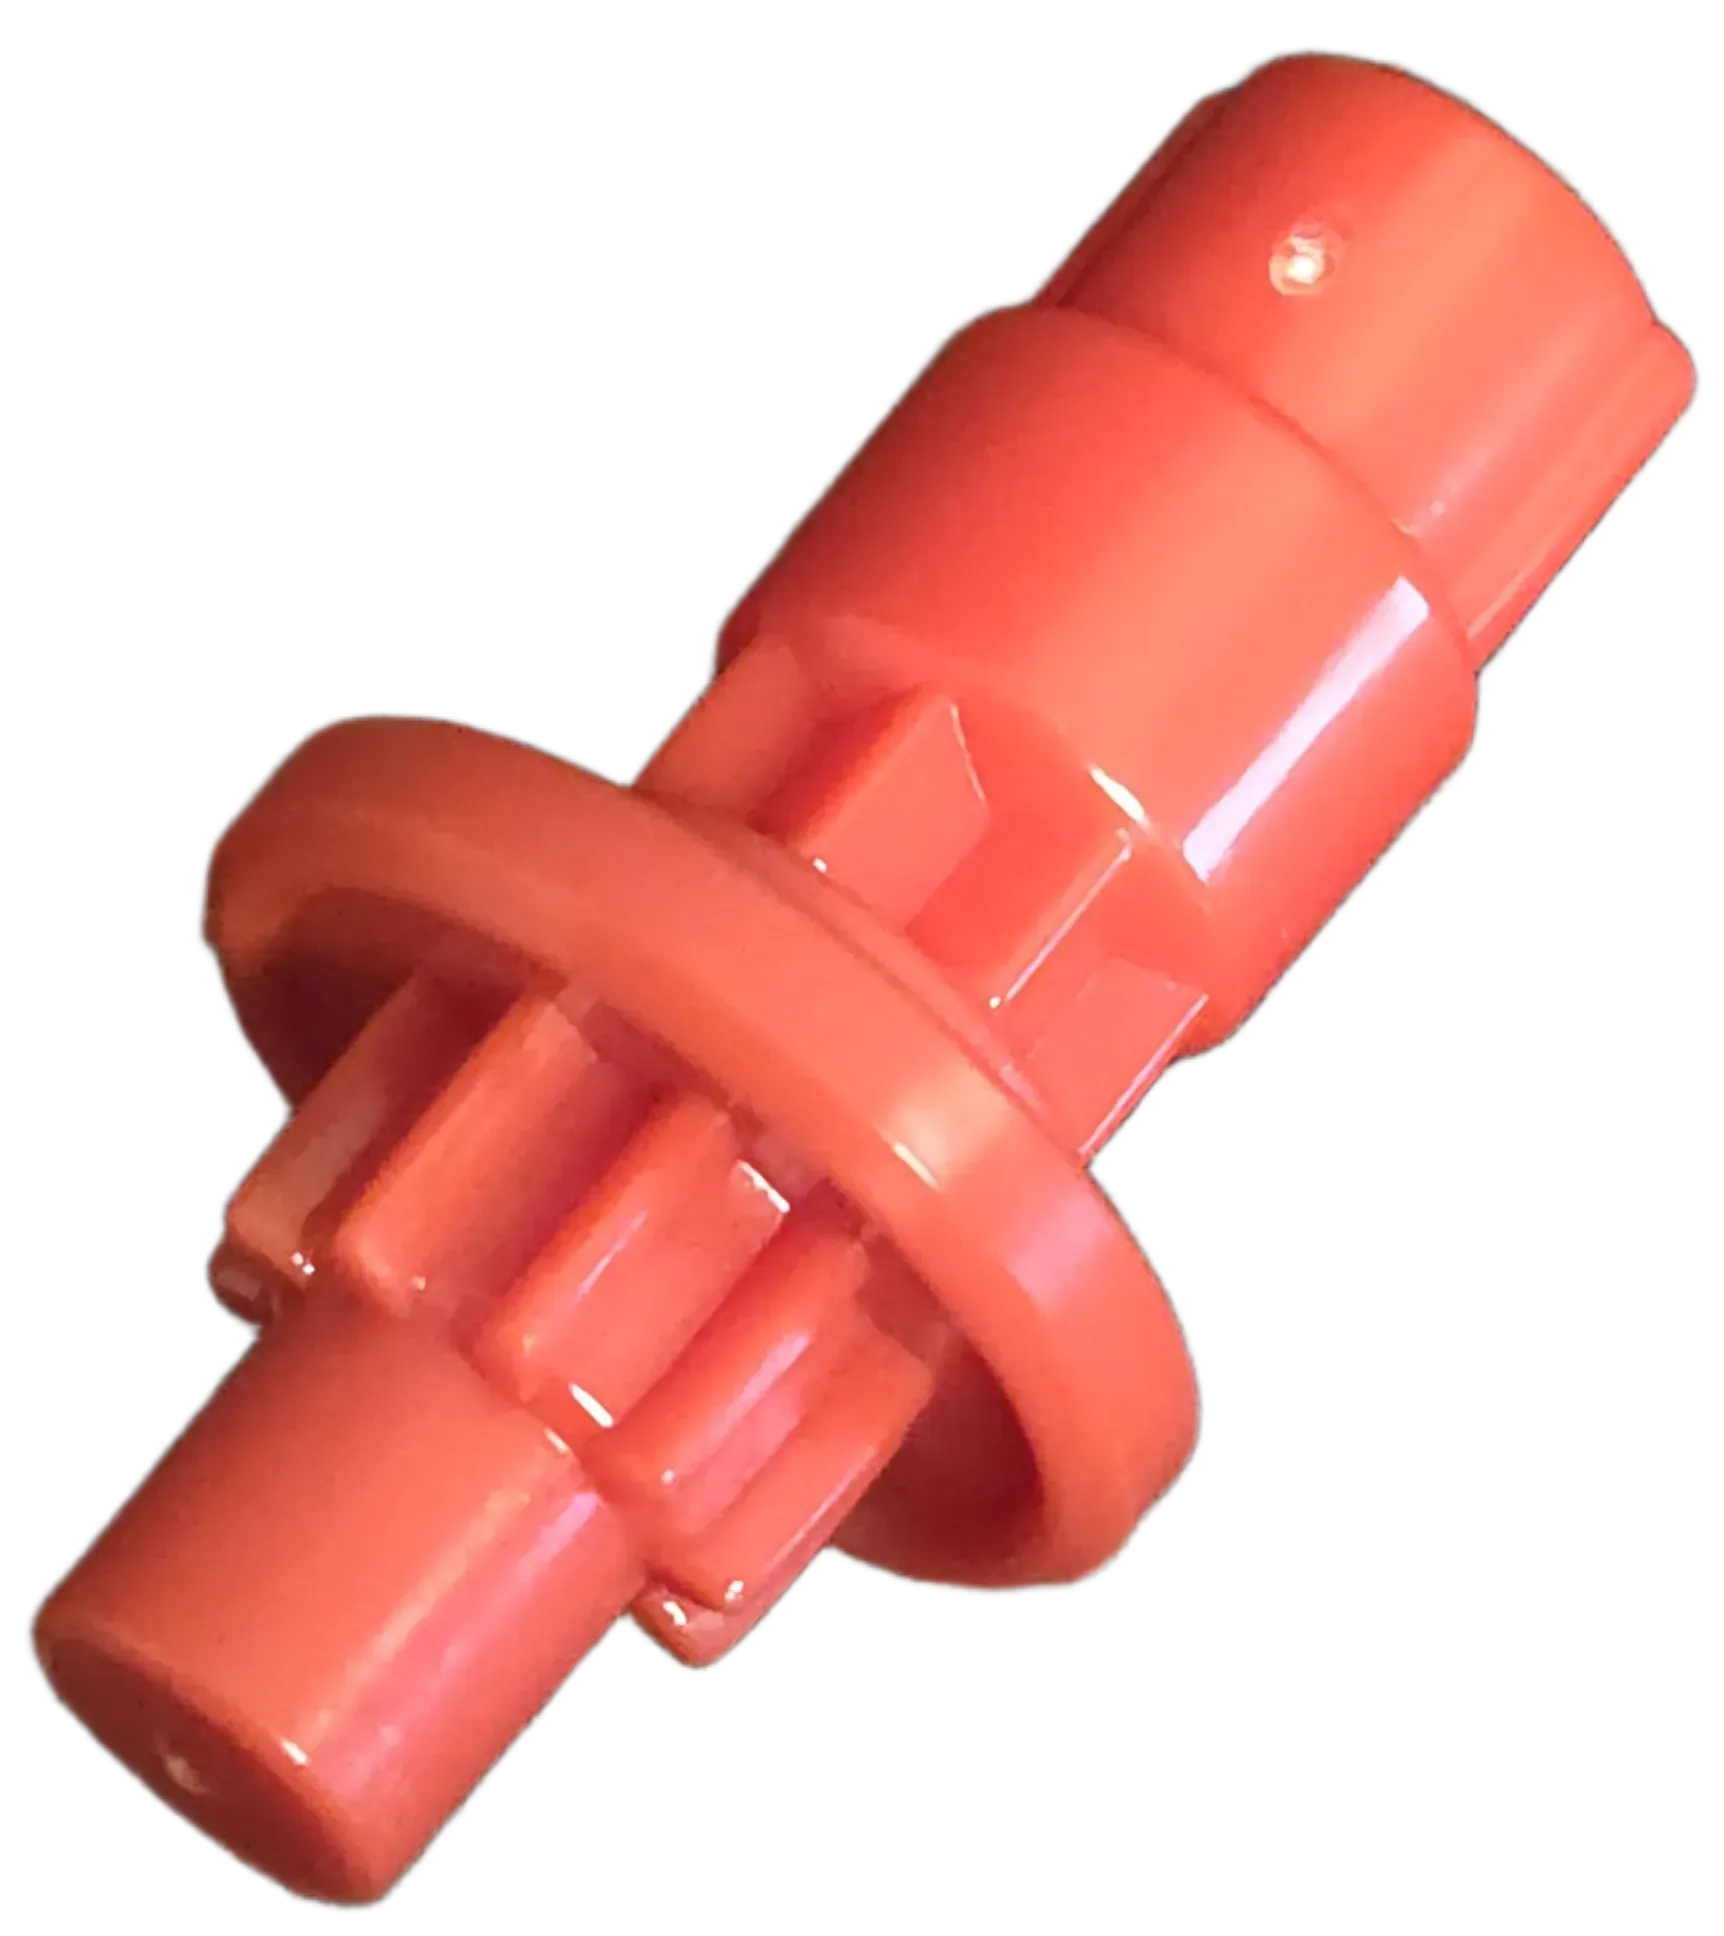
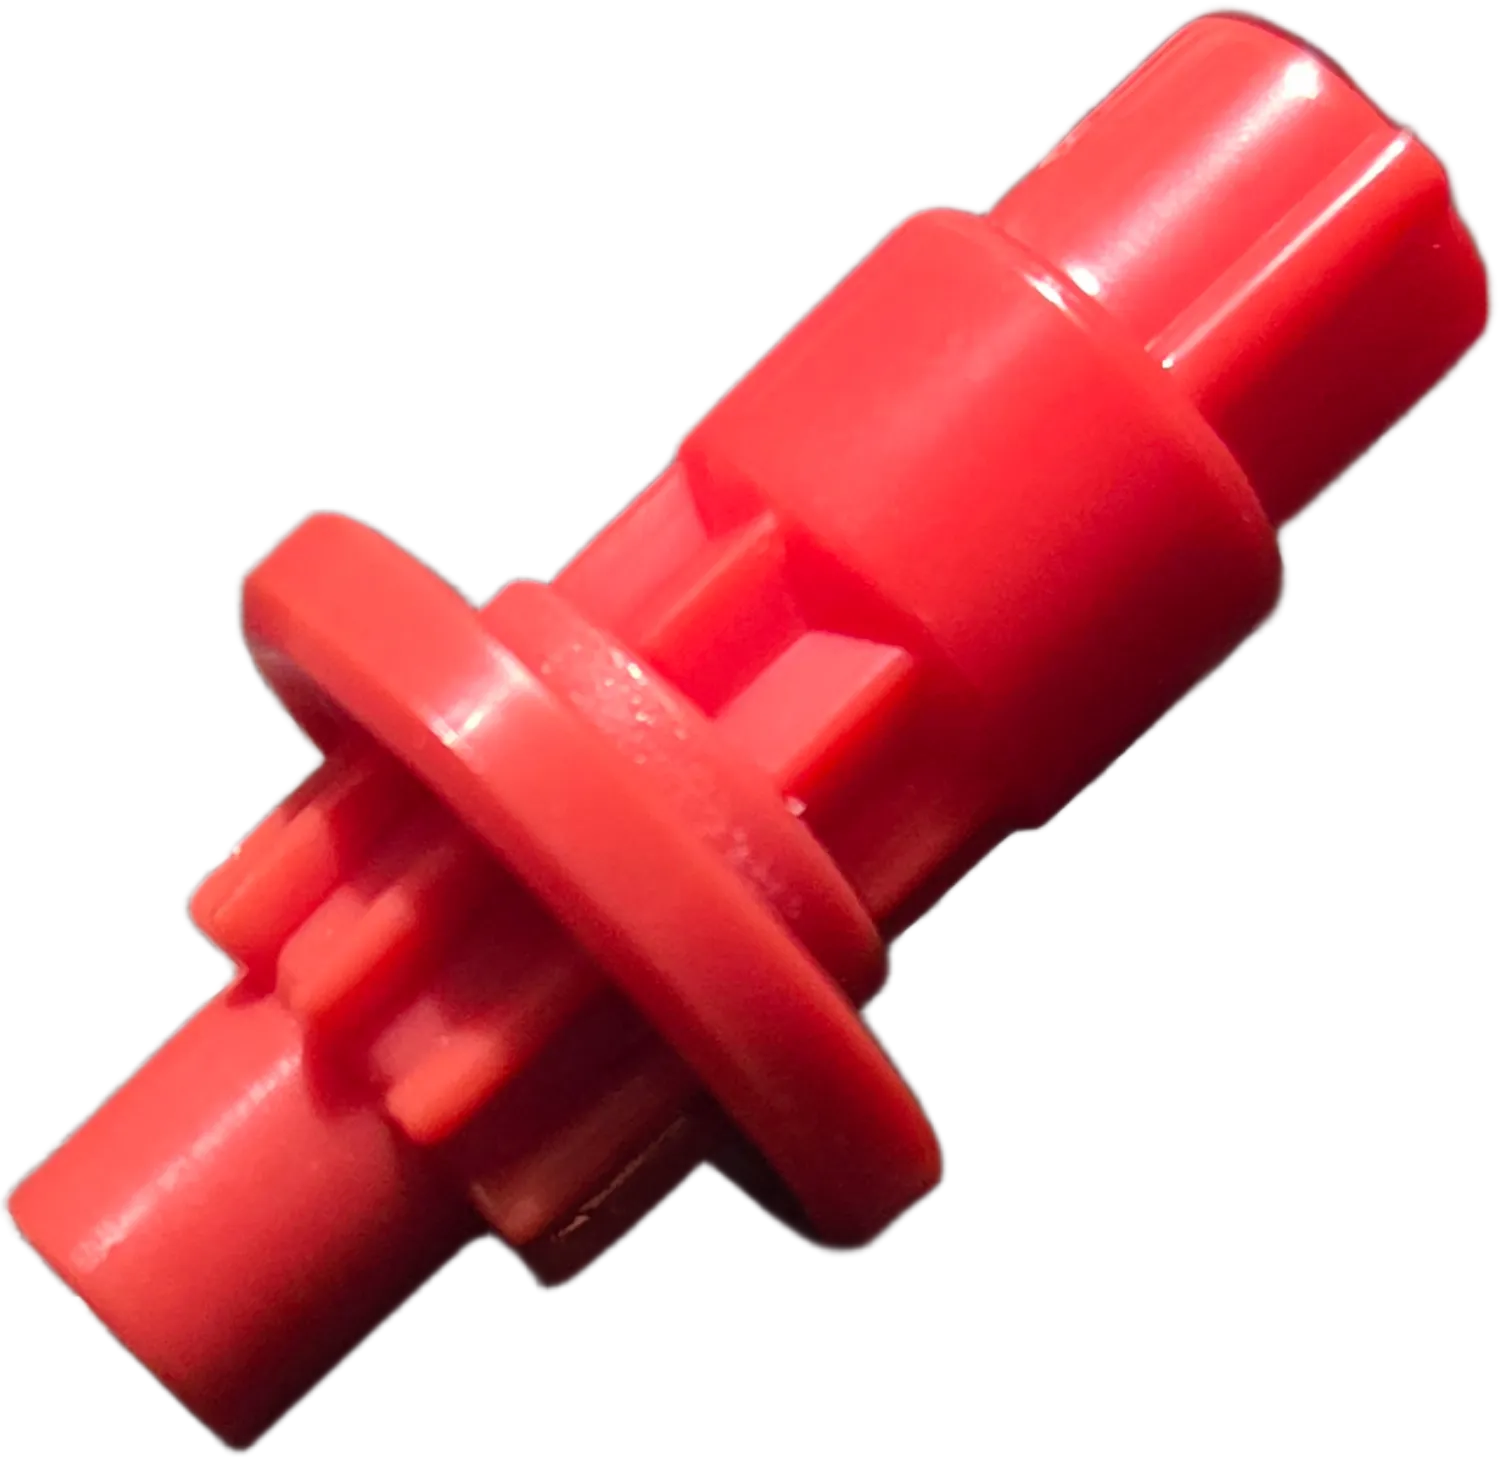
updated images for captain america and red hulk bits

diff --git a/Part-Images/need better pics.md b/Part-Images/need better pics.md
@@ -119,12 +119,6 @@ Technically need box pic for Red AeroPegasus
 - Gold/Silver/Bronze DranStrike
 
 
-**Gear Ball:**
-
-- Captain America
-
-
-
 **Gear Needle:**
 
 - Miles Morales 
@@ -160,11 +154,6 @@ Technically need box pic for Red AeroPegasus
 **Point:**
 
 - Obi Wan Kenobi 
-
-
-**Rush:**
-
-- Red Hulk
 
 
 **Vortex:**

diff --git a/README.md b/README.md
@@ -28,6 +28,7 @@ If you have any of the images that are currently needed that are listed in "need
 - SapphireBlaze (Most of the BBLD Parts)
 - Luv_v
 - BeyGorr (TikTok and Instagram)
+- stealthiccus
 
 
 # About the Beydex project: